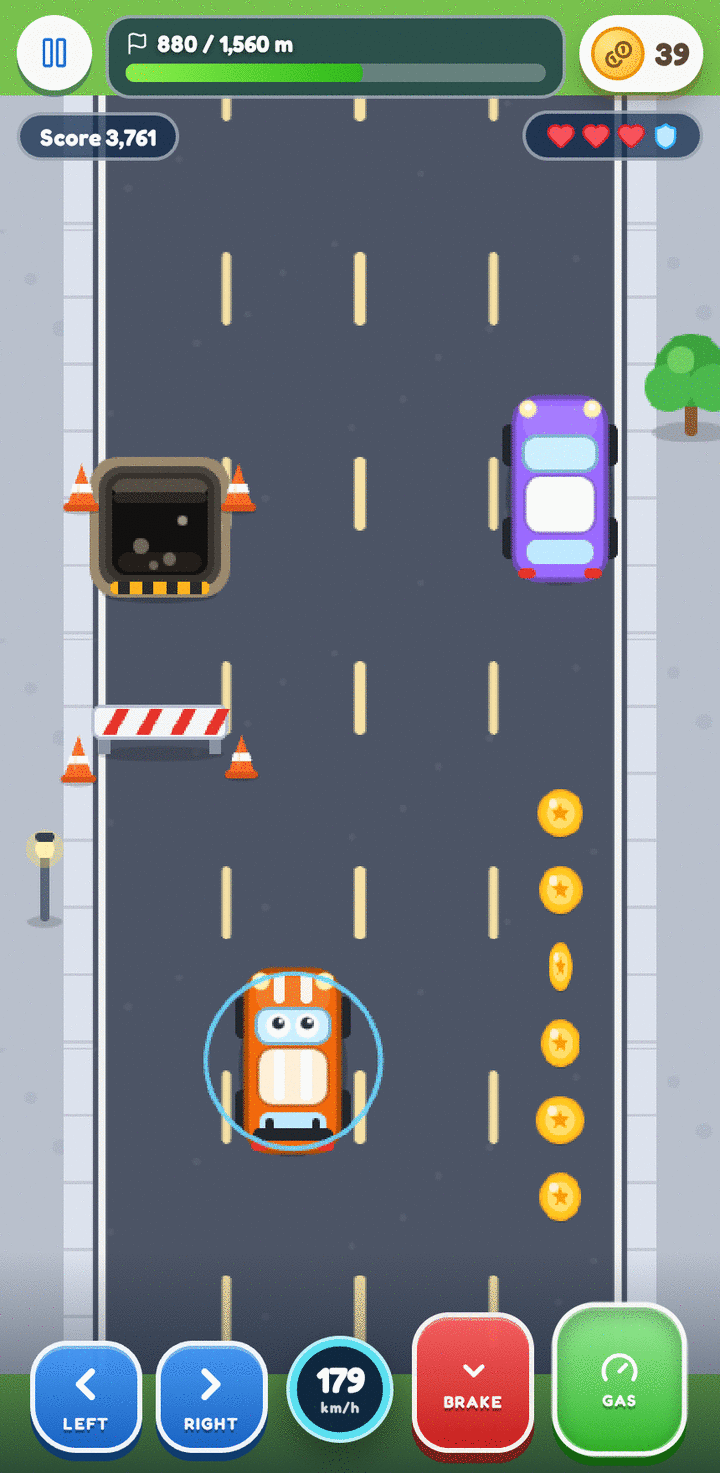
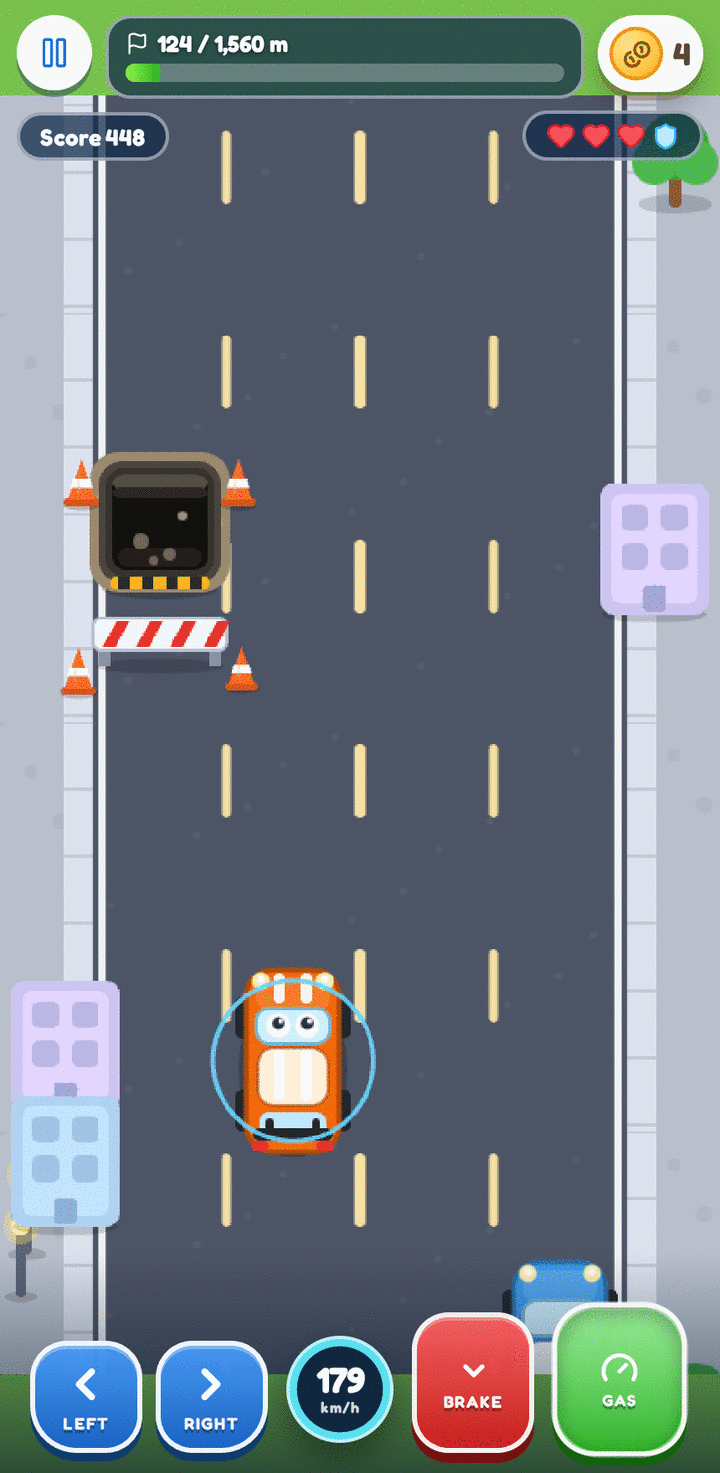
Only ever spawn a blocker together with its hole
Every hazard is now a single road-works site: the pit, with the striped blocker
standing at its near lip, `WORKS_GAP` (84 px, one car length) apart in the same
lane. Nothing else spawns — there is no barrier out on its own and no unguarded
hole anywhere on the road.

- spawnObstacle() always spawns the pair; the blocker-only and lone-pit branches
  are gone.
- Census over 500 forced spawns: 500 pairs, 0 blocker-only, 0 pit-only, always
  the same lane, always 84 px apart.
- Contact behaviour unchanged: blocker = crash (life), pit = jolt + clean run
  lost, no page errors; smoke suite all green.
- Refreshed the gameplay screenshots and the README/CHANGELOG wording.

diff --git a/src/game/RacingScene.ts b/src/game/RacingScene.ts
@@ -53,6 +53,10 @@ const ROAD_RIGHT = 392
 const LANE_W = (ROAD_RIGHT - ROAD_LEFT) / 4
 const PLAYER_Y = 604 // sits clear of the touch control deck
 const MAX_HITS = 3
+// Gap between the guarded pit's centre and the blocker's centre at a road-works
+// site: close enough to read as one site, far enough that the two sprites don't
+// overlap and the hitboxes stay separate.
+const WORKS_GAP = 84
 
 const laneCenter = (i: number) => ROAD_LEFT + LANE_W * (i + 0.5)
 
@@ -640,29 +644,27 @@ class RacingScene extends Phaser.Scene {
   private spawnObstacle(): void {
     const lane = this.randomLane()
     if (this.laneBusyAtTop(lane, 190)) return
-    // Only construction hazards, and mostly the road blocker on its own: the
-    // tarmac should not feel like a minefield of holes. Roughly 2 in 3 sites is
-    // a plain blocker, 1 in 4 is the blocker with the pit it guards behind it,
-    // and a lone open pit is rare.
-    const roll = Math.random()
-    const cx = laneCenter(lane)
-    if (roll < 0.68) {
-      this.armObstacle(this.obstacles.get(cx, -50, 'barrier') as Phaser.Physics.Arcade.Sprite | null, 'barrier', cx, -50)
-      return
-    }
-    if (roll < 0.92) {
-      this.spawnRoadWorks(lane)
-      return
-    }
-    this.armObstacle(this.obstacles.get(cx, -50, 'pit') as Phaser.Physics.Arcade.Sprite | null, 'pit', cx, -50)
+    // Every hazard is one road-works site: the blocker standing at the open pit
+    // it guards. The blocker never shows up on its own, and a hole is never left
+    // unguarded — they are placed together, one car length apart.
+    this.spawnRoadWorks(lane)
   }
 
-  /** A road blocker, then the construction pit it is guarding. */
+  /**
+   * One road-works site: the pit, with the blocker at its near lip. Both are
+   * spawned in the same lane, `WORKS_GAP` apart, so they always read as a single
+   * construction site rather than two separate obstacles.
+   */
   private spawnRoadWorks(lane: number): void {
     if (this.laneBusyAtTop(lane, 300)) return
     const cx = laneCenter(lane)
-    this.armObstacle(this.obstacles.get(cx, -50, 'barrier') as Phaser.Physics.Arcade.Sprite | null, 'barrier', cx, -50)
-    this.armObstacle(this.obstacles.get(cx, -186, 'pit') as Phaser.Physics.Arcade.Sprite | null, 'pit', cx, -186)
+    this.armObstacle(this.obstacles.get(cx, -170, 'pit') as Phaser.Physics.Arcade.Sprite | null, 'pit', cx, -170)
+    this.armObstacle(
+      this.obstacles.get(cx, -170 + WORKS_GAP, 'barrier') as Phaser.Physics.Arcade.Sprite | null,
+      'barrier',
+      cx,
+      -170 + WORKS_GAP,
+    )
   }
 
   private armObstacle(

diff --git a/README.md b/README.md
@@ -23,16 +23,17 @@ finger anywhere on screen.
 
 **Goal:** drive the full distance to finish a level. Collect coins, dodge traffic
 and the road works. Three crashes end the run — a **road blocker** costs a life,
-driving into an open **construction pit** jolts the car and kills your clean run. Pits are
-rarer than blockers — about one site in three has one — and cones are scenery: they only
-ever appear as part of a road-works site, never on their own and never in front of a hole.
+and slipping past it into the open **construction pit** behind jolts the car and kills your
+clean run. A blocker always comes with its hole at the same spot — there is no barrier out
+on its own and no unguarded hole. Cones are scenery: they only ever appear as part of a
+road-works site, never on their own and never in front of a hole.
 Earn up to **3 stars** per level: finish + coin goal + clean (crash-free) driving.
 Near misses give bonus points!
 
 ## Features
 
 - **Reference-style home screen** — original AI-generated tropical town + cute 3D-style hero car with idle animation, top HUD (profile / coins / hearts with a *real* regeneration timer), treasure-milestone progress bar, reward Boost selector, big green `LEVEL n` button and a 5-tab bottom navigation. Every button works.
-- **Real gameplay (Phaser 3)** — scrolling themed roads, frame-rate independent steering/acceleration/braking, traffic cars & trucks that keep a gap, queue and overtake, construction road works (mostly a blocker with cones fencing the closed lane; the odd guarded pit, marked by two cones on its far corners and nothing in front of the hole), spinning coin chains, near-miss bonuses, crash invulnerability/blink, camera shake, particles, countdown, pause and auto-pause when the tab is hidden.
+- **Real gameplay (Phaser 3)** — scrolling themed roads, frame-rate independent steering/acceleration/braking, traffic cars & trucks that keep a gap, queue and overtake, construction road works — every one a single site: a striped blocker with cones either side, standing at the near lip of the open pit it guards, so the blocker never appears without its hole and a hole is never left unguarded, spinning coin chains, near-miss bonuses, crash invulnerability/blink, camera shake, particles, countdown, pause and auto-pause when the tab is hidden.
 - **50 levels** — Sunny Streets all the way to Champion's Highway: every level has its own name, distance, coin goal, traffic density/speed and roadside theme (palms, cacti, city buildings…), ramping smoothly from 1,200 m to 7,080 m, plus an **Endless mode** with ramping difficulty and a saved best score. The level picker opens scrolled to your current level.
 - **Progression & economy** — coins, hearts (start a run = 1 heart, finishing refunds it, +1 every 90 s, or buy for 50 coins), level unlocks & stars, Boost ×1/×2/×3 (bigger rewards, busier roads), 7-day daily rewards, a repeatable 250-coin treasure milestone.
 - **Garage — 12 original cartoon cars** — Ruby, Officer Sky, Sunny Taxi, Minty, Blaze, Coco, Bolt, Bumble, Rocky, Comet, Apex and Nova. Each has its own hero artwork, top-down sprite styling (racing stripes, spoilers, roof racks, neon supercar glow…) and Speed/Acceleration/Handling stats that genuinely change handling & top speed, from the free starter to the 12,000-coin Nova.

diff --git a/CHANGELOG.md b/CHANGELOG.md
@@ -18,12 +18,12 @@ of the in-game **Settings** screen.
   the road; they now only ever appear as part of a road-works site — fencing the
   blocker, and marking the far corners of a pit — so every cone you see means
   something.
-- **Far fewer holes.** About two sites in three are now a plain road blocker; the
-  guarded pit appears with roughly a quarter of blockers, and a lone open pit is rare
-  (measured over 600 spawns: 70% blocker only, 24% blocker + pit, 5% lone pit — pits in
-  30% of sites instead of every single one).
-- Nothing is placed in front of a pit any more: the near lip keeps only its warning
-  tape, with the two cones on the far corners, which keeps the site readable.
+- **A blocker and its hole are one site, always.** The blocker stands at the near lip
+  of the open pit it guards (84 px apart, one car length), so there is never a barrier
+  out on its own and never an unguarded hole — measured over 500 spawns: 500 pairs,
+  0 blocker-only, 0 pit-only.
+- Nothing is placed in front of a pit: the near lip keeps only its warning tape, with
+  the two cones on the far corners, which keeps the site readable.
 - Blockers are a full crash (a life); pits jolt the car, cut its speed and spoil the
   clean run without costing a life.
 - Coin chains no longer spawn over a blocked lane.
